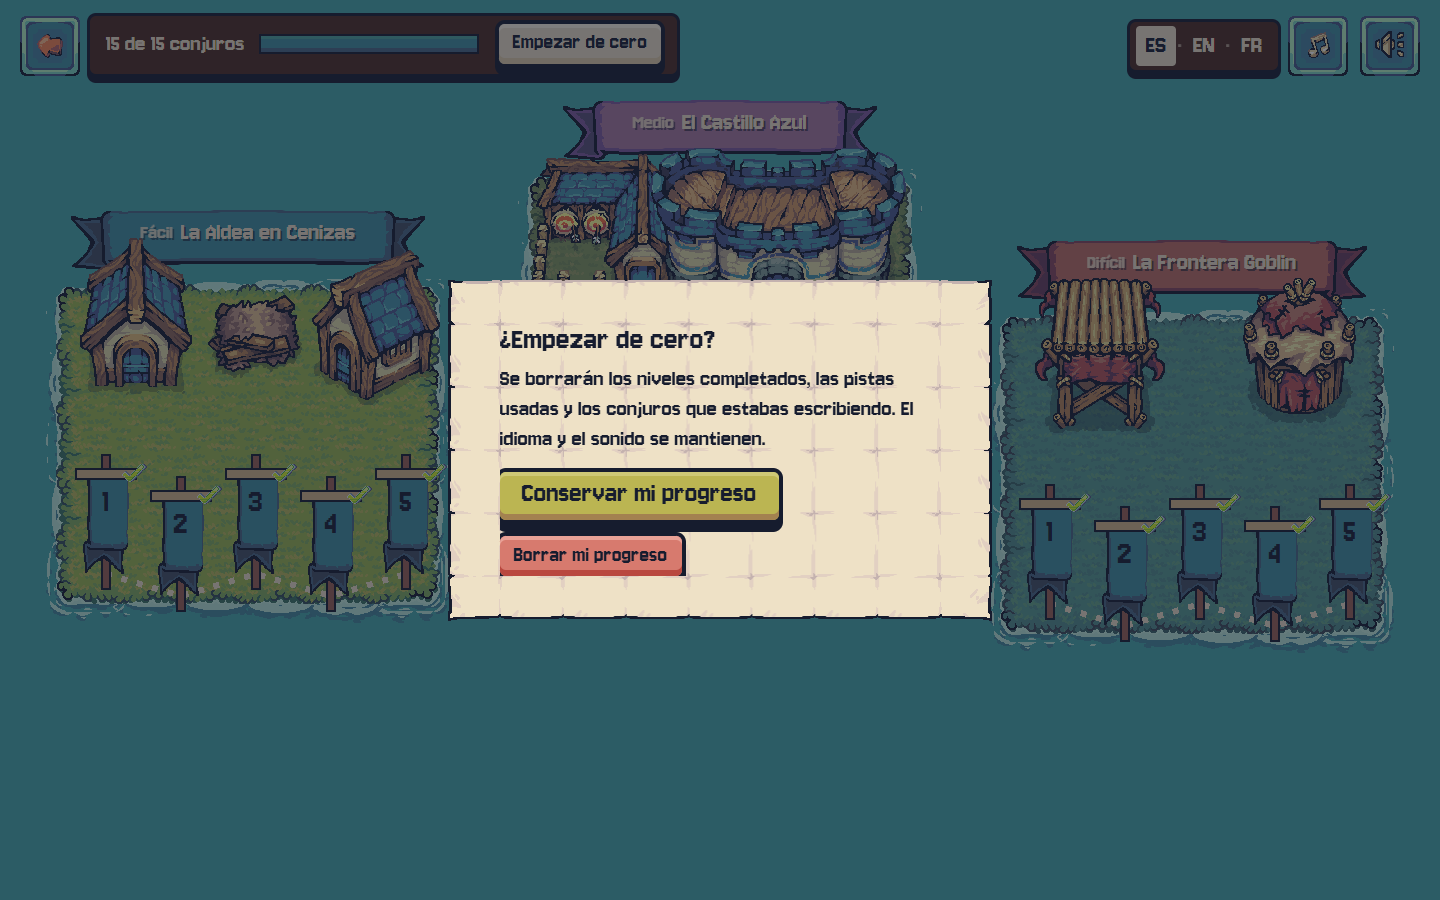
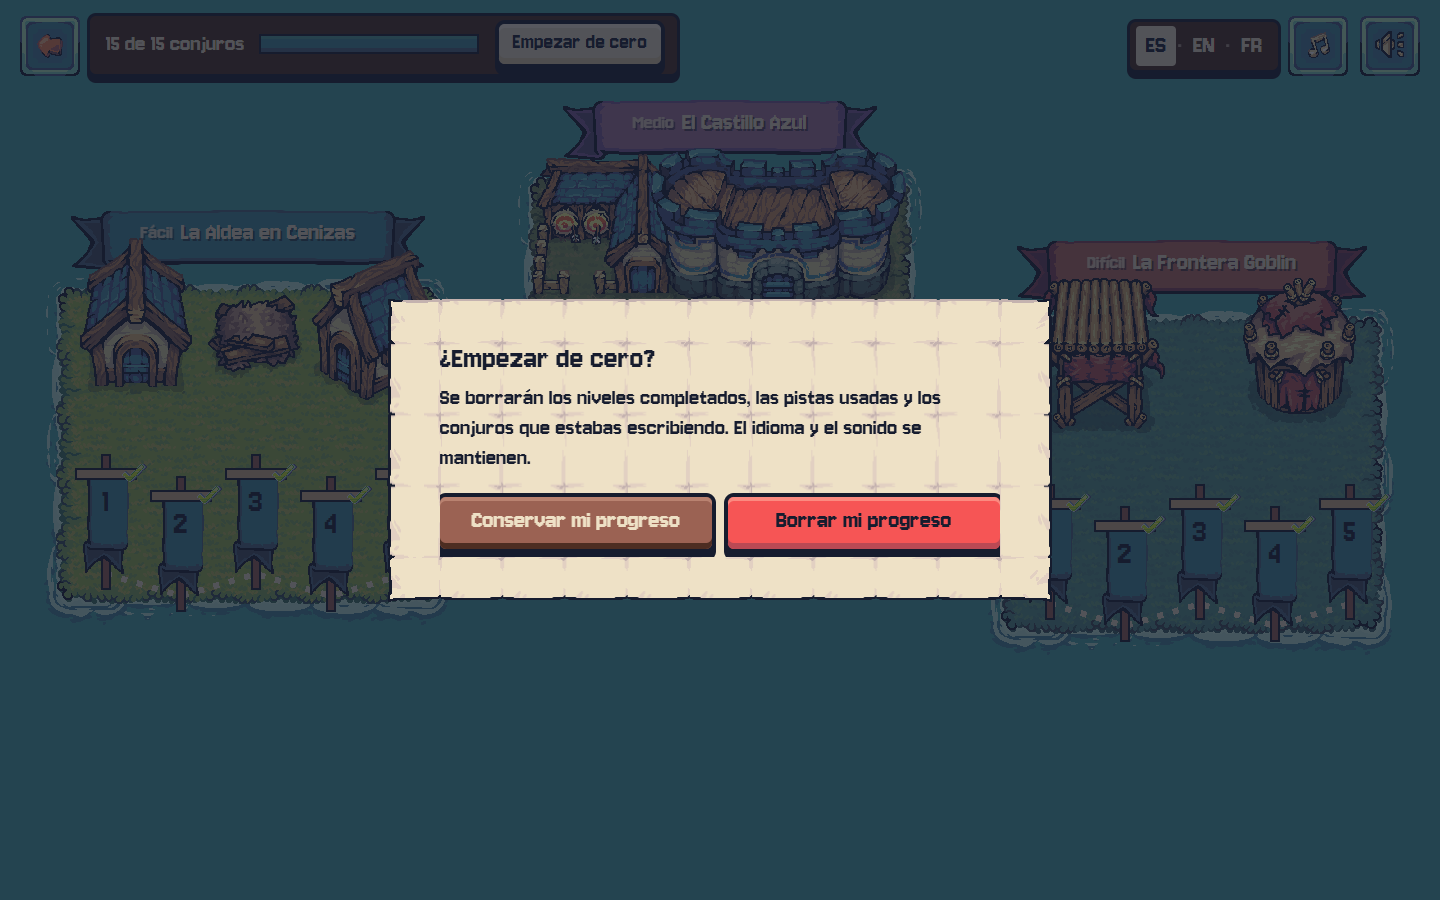
feat(ui): balanced start-over dialog
Centred over a darker backdrop. Keep (kit wood, focused by default) and Erase (kit red) have the same size, side by side on desktop, stacked at full width on phones; wide enough for the French labels. The dialog text now wraps on phones (it inherited nowrap from the progress bar).

Changed region(s): [[0.0312, 0.0, 0.9688, 0.7467], [0.7812, 0.0, 1.0, 0.0933], [0.0, 0.0, 0.1875, 0.0933]]

diff --git a/src/styles/main.css b/src/styles/main.css
@@ -113,8 +113,10 @@ a { color: inherit; }
 .btn:disabled { filter: grayscale(1) brightness(.85); cursor: not-allowed; transform: none; }
 .btn--primary { --face: var(--kit-yellow); --light: var(--kit-yellow-light); --shade: var(--kit-yellow-shade); }
 .btn--ghost { --face: var(--parchment); --light: #fff6e0; --shade: var(--parchment-deep); }
-/* Destructive action (only in confirmations): ember face, ink text. */
-.btn--danger { --face: #d77a6e; --light: #e9a196; --shade: var(--ember); }
+/* Neutral choice (e.g. "keep my progress"): the kit's wood with parchment text (large text, 3.8:1). */
+.btn--wood { --face: var(--wood); --light: #b98270; --shade: var(--wood-dark); color: var(--parchment); }
+/* Destructive action (only in confirmations): the kit's red button colours, ink text (5.1:1). */
+.btn--danger { --face: #f65555; --light: #fb8a80; --shade: #ba4954; }
 .btn--small { min-height: 40px; font-size: 1.4rem; padding: 6px 14px 9px; }
 .btn--big { font-size: 2.4rem; padding: 12px 40px 18px; }
 .btn img { width: 28px; height: 28px; }
@@ -380,11 +382,20 @@ a { color: inherit; }
 }
 
 /* ---------- confirmation dialog ---------- */
-.confirm { max-width: min(520px, calc(100vw - 48px)); padding: 0; color: var(--ink); background: transparent; }
-.confirm::backdrop { background: rgba(22, 28, 46, .55); }
+.confirm {
+  position: fixed; inset: 0; margin: auto; width: min(640px, calc(100vw - 32px)); max-width: none; height: fit-content;
+  padding: 0; color: var(--ink); background: transparent; white-space: normal; text-align: left;
+}
+.confirm::backdrop { background: rgba(22, 28, 46, .72); }
 .confirm h2 { margin: 0 0 8px; font-size: 2rem; line-height: 1; }
-.confirm p { margin: 0 0 18px; }
-.confirm__actions { display: flex; flex-wrap: wrap; gap: 16px; align-items: center; }
+.confirm p { margin: 0 0 24px; }
+/* Two buttons of the same size, side by side and filling the row; they stack when they do not fit. */
+.confirm__actions { display: flex; flex-wrap: wrap; justify-content: flex-end; gap: 20px 16px; padding-bottom: 8px; }
+.confirm__actions .btn { flex: 1 1 0; font-size: 1.6rem; min-height: 52px; }
+@media (max-width: 560px) {
+  .confirm__actions { flex-direction: column; }
+  .confirm__actions .btn { flex: none; width: 100%; }
+}
 .map__reset { margin-left: 6px; }
 
 /* ---------- epilogue ---------- */

diff --git a/src/ui/screens/map.ts b/src/ui/screens/map.ts
@@ -102,8 +102,8 @@ export function mapScreen(ctx: AppContext, select?: LevelId): Screen {
 /** "Start over" with a confirmation dialog; the safe choice (keep progress) has the focus. */
 function resetButton(ctx: AppContext): HTMLElement {
   const { i18n } = ctx;
-  const keep = h('button', { type: 'button', class: 'btn btn--primary', value: 'keep' }, i18n.t('reset.cancel'));
-  const erase = h('button', { type: 'button', class: 'btn btn--danger btn--small', value: 'erase' }, i18n.t('reset.confirm'));
+  const keep = h('button', { type: 'button', class: 'btn btn--wood', value: 'keep', autofocus: true }, i18n.t('reset.cancel'));
+  const erase = h('button', { type: 'button', class: 'btn btn--danger', value: 'erase' }, i18n.t('reset.confirm'));
   const dialog = h('dialog', { class: 'paper confirm', 'aria-labelledby': 'reset-title', 'aria-describedby': 'reset-body' },
     h('h2', { id: 'reset-title' }, i18n.t('reset.title')),
     h('p', { id: 'reset-body' }, i18n.t('reset.body')),

diff --git a/docs/design/README.md b/docs/design/README.md
@@ -138,5 +138,8 @@ the credits. Screens: `screens/epilogue-*.png`, `screens/reset-dialog-desktop.pn
 - **Star it on GitHub:** a pixel star (drawn like the padlock, as the kit has none) with a short link,
   in three quiet places: the title-screen footer ("GitHub" only on phones, to keep the footer below
   the island), a one-time line above "Turn the page" about 2 s after solving Easy 3 (after the
-  diorama's reaction; no pop-up) and the epilogue credits.
+  diorama's reaction; no pop-up; shown once ever, stored in `kor.star.v1`) and the epilogue credits.
+- **Start-over dialog:** centred over a darker backdrop. "Keep my progress" (kit wood, focused by
+  default) and "Erase my progress" (kit red) have the same size, side by side on desktop and stacked
+  at full width on phones.
 - **Music level:** 0.11 (55% of the first level, 0.2); effects unchanged.
